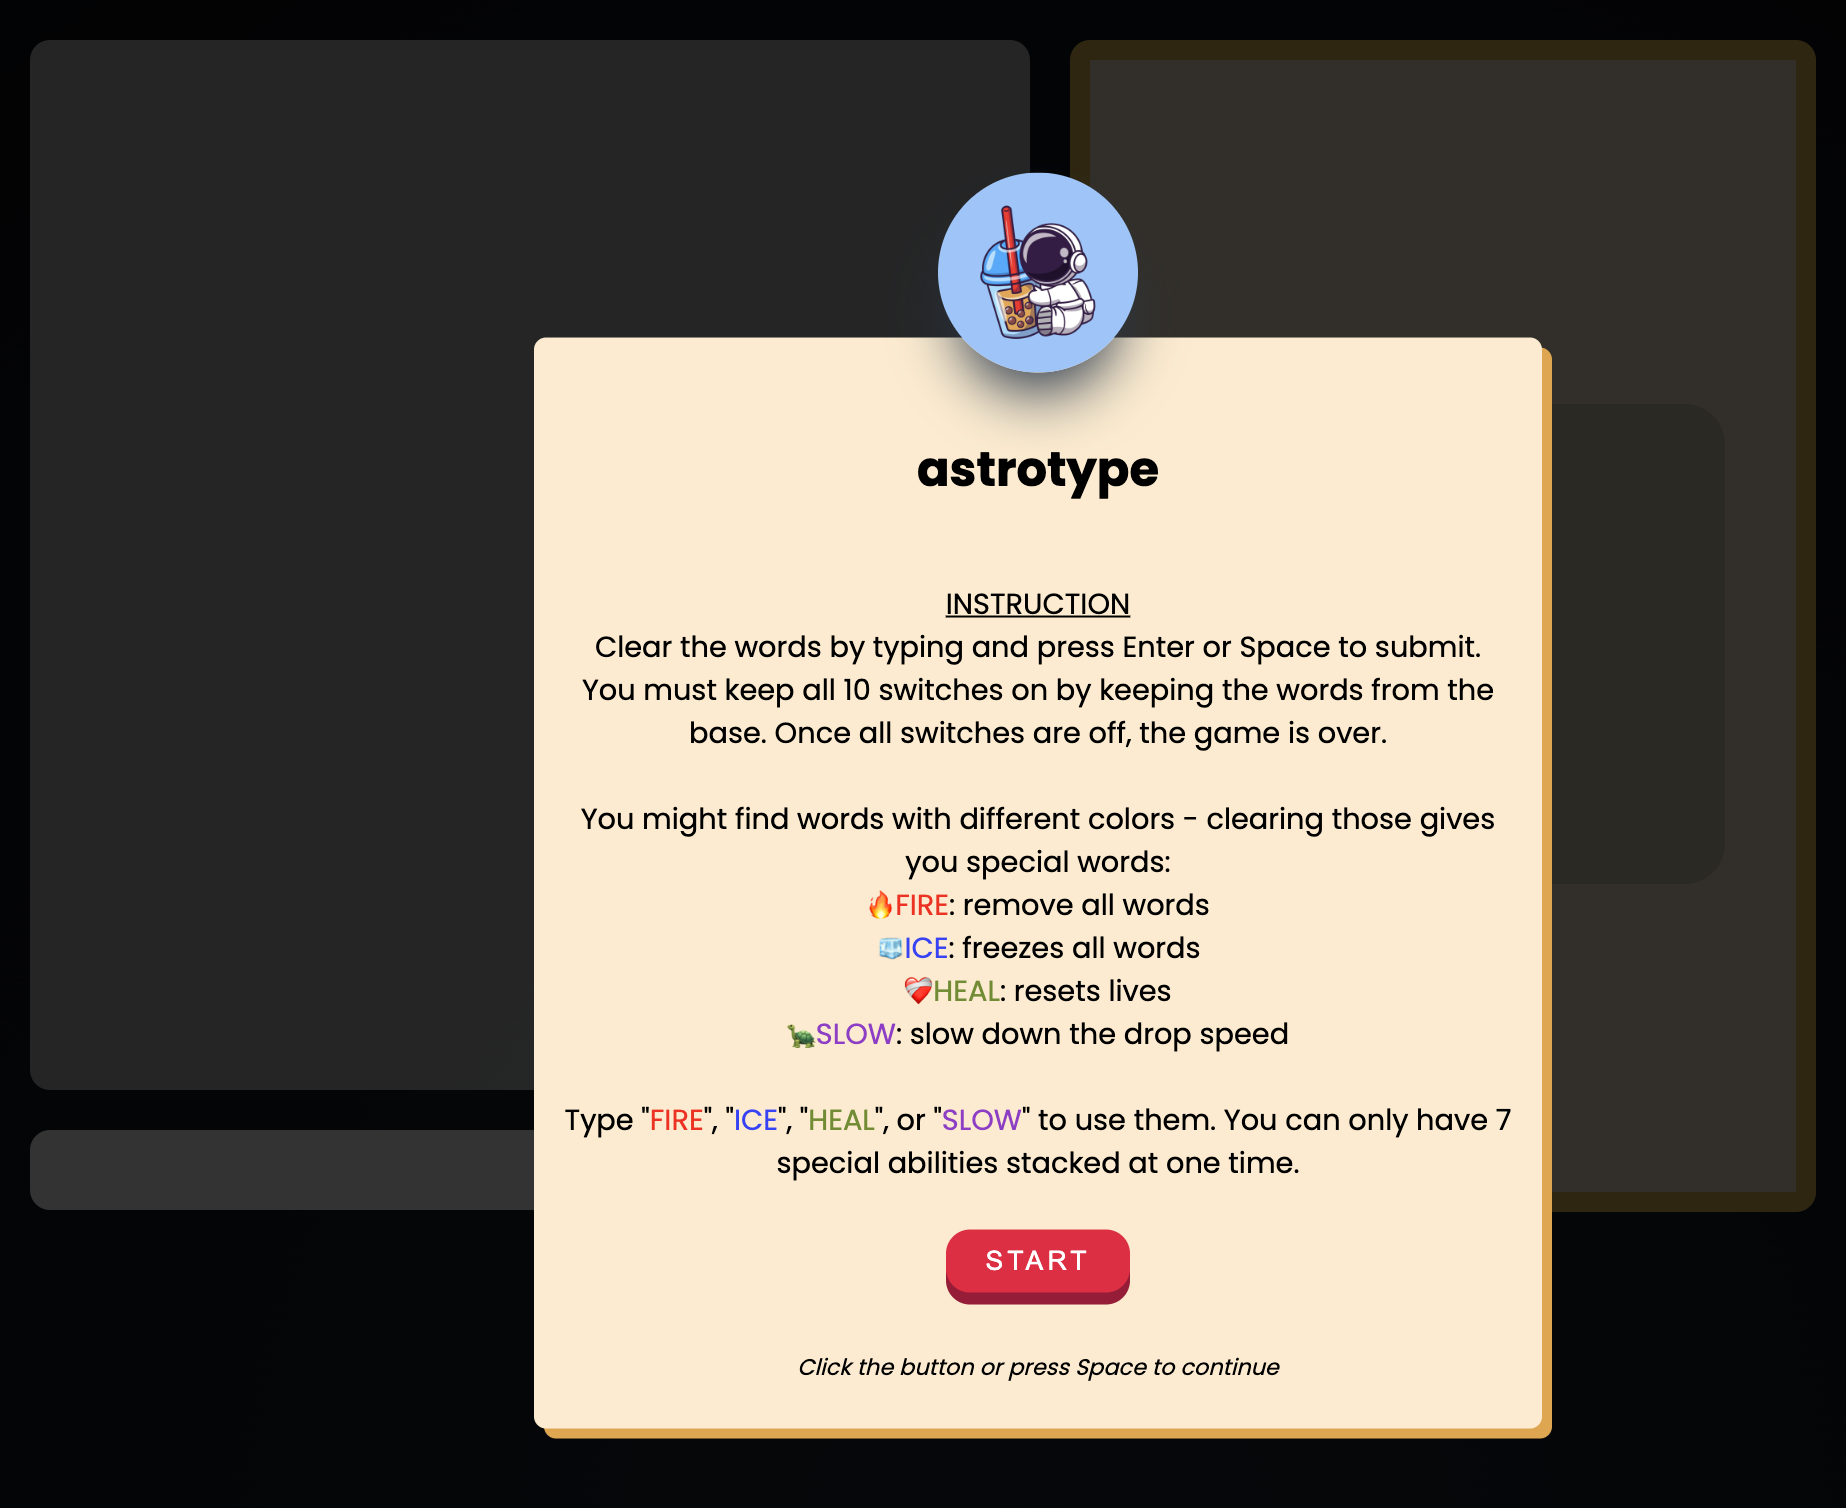
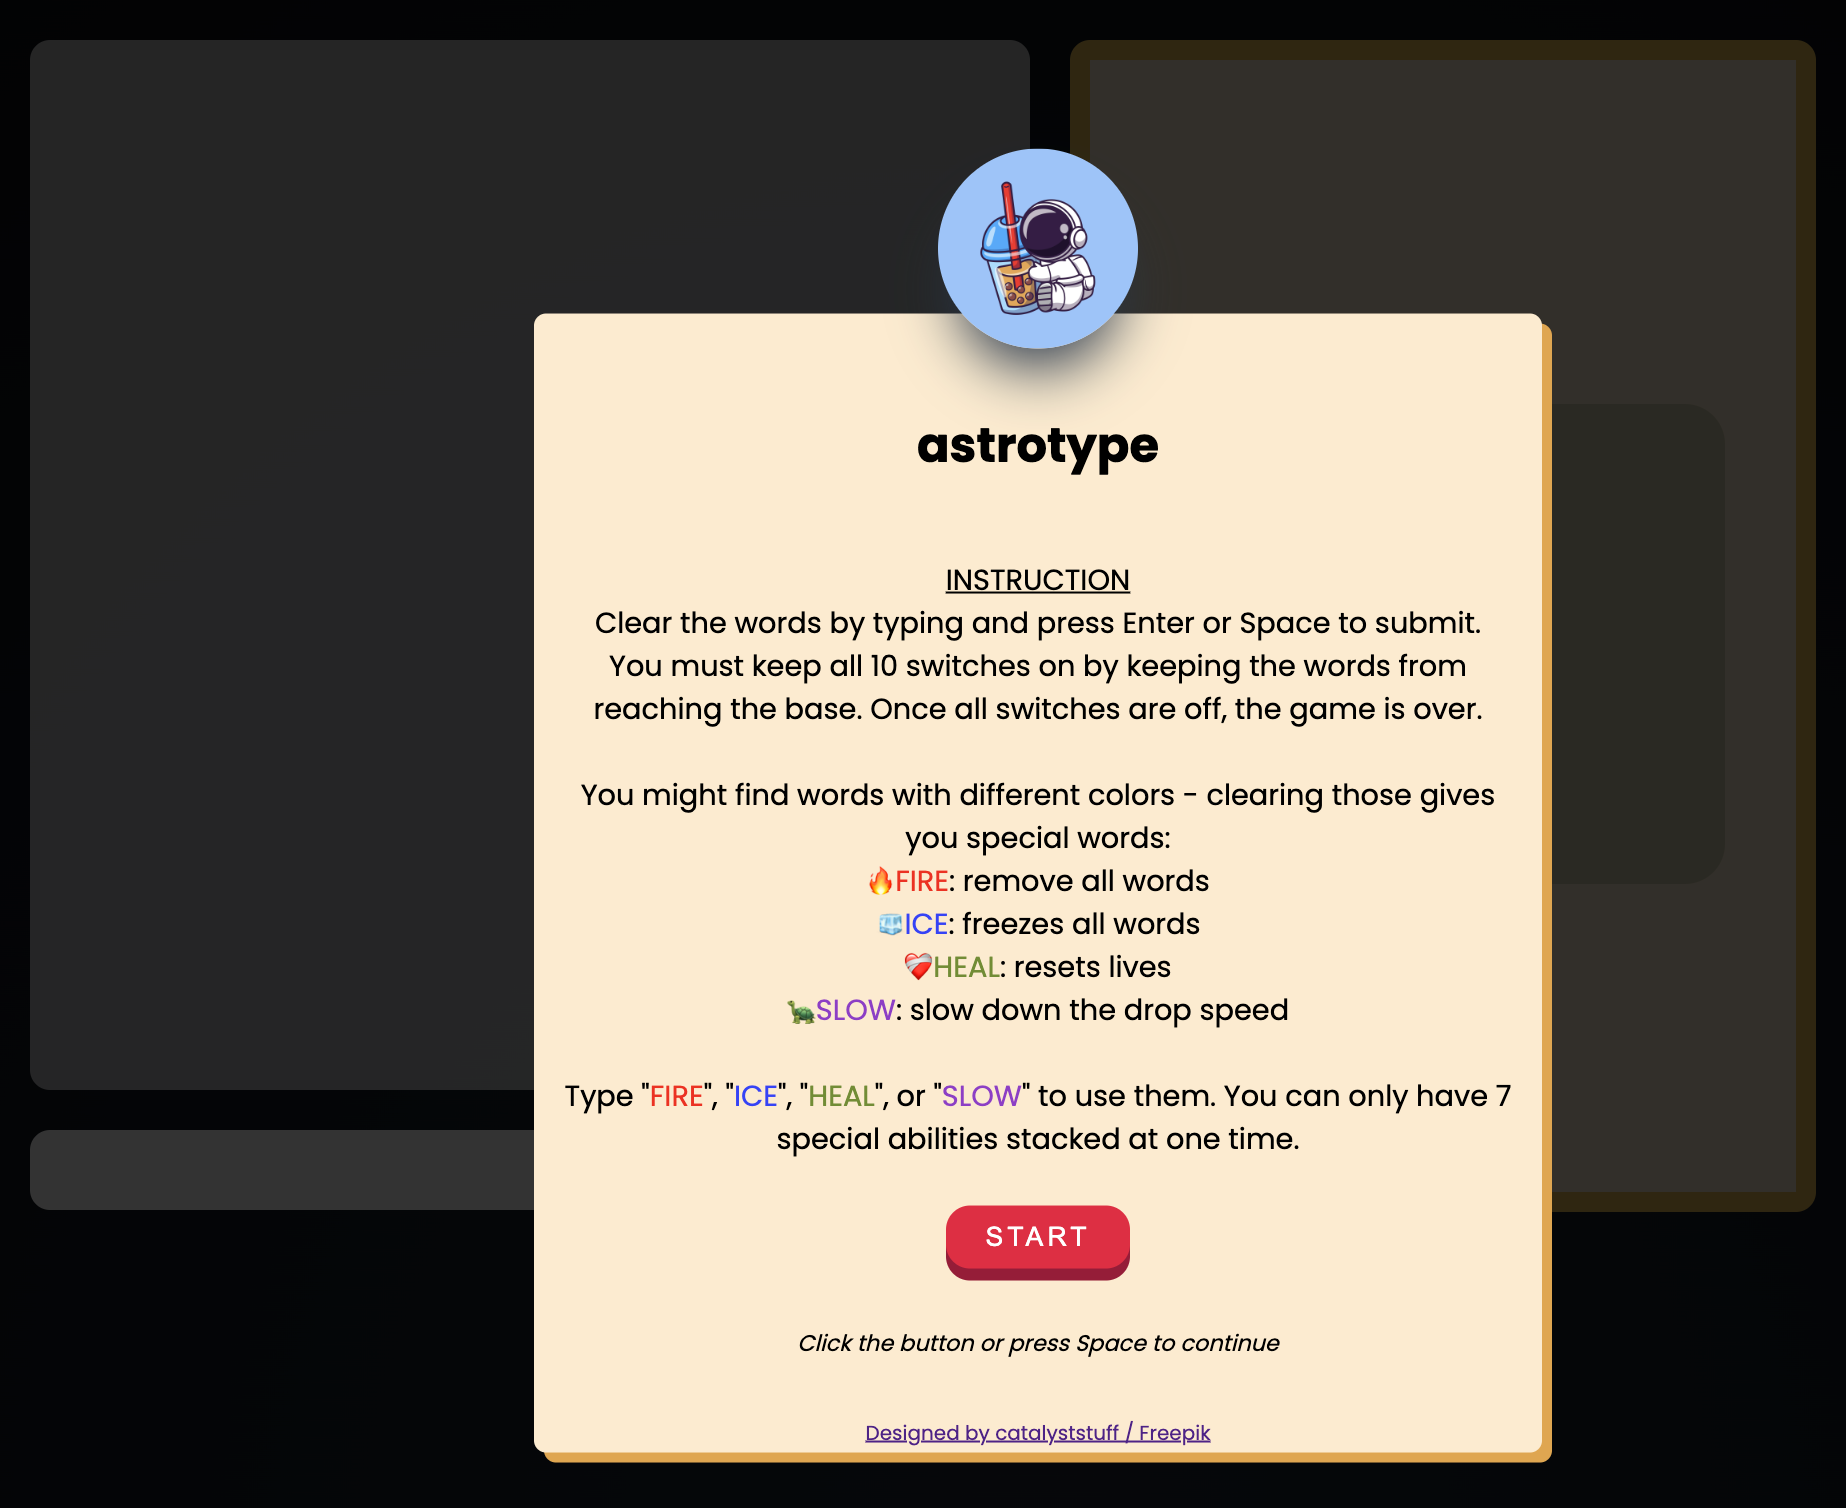
update readme and other minor changes

Changed region(s): [[0.2779, 0.374, 0.8646, 0.9973], [0.2779, 0.0935, 0.8646, 0.3428]]

diff --git a/index.html b/index.html
@@ -8,14 +8,8 @@
     <link rel="stylesheet" href="styles.css" crossorigin="anonymous" />
   </head>
   <body>
-    <!-- <div class="stars">
-      <div class="stars-back"></div>
-      <div class="stars-middle"></div>
-    </div> -->
-
-    <!-- creating a popup from: https://www.youtube.com/watch?v=AF6vGYIyV8M&ab_channel=EasyTutorials -->
-
     <div class="overlay">
+      <!-- creating a popup from: https://www.youtube.com/watch?v=AF6vGYIyV8M&ab_channel=EasyTutorials -->
       <div class="popup" style="font-family: Poppins">
         <img class="popup-image" src="assets/1981.jpg" />
         <h3 class="level" style="font-weight: 700; font-size: 24px">Level 1</h3>
@@ -24,8 +18,8 @@
           <span style="text-decoration: underline">INSTRUCTION</span>
           <br />
           Clear the words by typing and press Enter or Space to submit. <br />
-          You must keep all 10 switches on by keeping the words from the base.
-          Once all switches are off, the game is over.
+          You must keep all 10 switches on by keeping the words from reaching
+          the base. Once all switches are off, the game is over.
           <br />
           <br />
           You might find words with different colors - clearing those gives you
@@ -46,6 +40,9 @@
           <span class="front">START</span>
         </button>
         <p class="cont">Click the button or press Space to continue</p>
+        <a href="http://www.freepik.com" style="font-size: 10px" ;
+          >Designed by catalyststuff / Freepik</a
+        >
       </div>
     </div>
     <div class="game-area">

diff --git a/styles.css b/styles.css
@@ -177,56 +177,6 @@ body {
   transform: translateY(-2px);
 }
 
-/* background from: https://codepen.io/JDoe/pen/QxvgOZ */
-
-.stars > div {
-  /* > selects all elements with class "stars" where the parent is a <div> element */
-  overflow: hidden;
-  position: absolute;
-  top: 0;
-  bottom: 0;
-  left: 0;
-  right: 0;
-}
-
-.stars .stars-back {
-  top: -50%;
-  opacity: 0.5;
-  background-image: radial-gradient(
-      2px 2px at 20px 30px,
-      #eee,
-      rgba(0, 0, 0, 0)
-    ),
-    radial-gradient(2px 2px at 40px 70px, #fff, rgba(0, 0, 0, 0)),
-    radial-gradient(1px 1px at 90px 40px, #fff, rgba(0, 0, 0, 0)),
-    radial-gradient(2px 2px at 160px 120px, #ddd, rgba(0, 0, 0, 0));
-  background-repeat: repeat;
-  background-size: 150px 150px;
-  animation: stars 10s infinite linear;
-}
-
-.stars .stars-middle {
-  background-image: radial-gradient(
-      3px 3px at 50px 160px,
-      #ddd,
-      rgba(0, 0, 0, 0)
-    ),
-    radial-gradient(2px 2px at 90px 40px, #fff, rgba(0, 0, 0, 0)),
-    radial-gradient(2px 2px at 130px 80px, #fff, rgba(0, 0, 0, 0));
-  background-repeat: repeat;
-  background-size: 200px 200px;
-  animation: stars 15s infinite linear;
-}
-
-@keyframes stars {
-  0% {
-    top: -100%;
-  }
-  100% {
-    top: 0;
-  }
-}
-
 @keyframes descend {
   0% {
     transform: translateY(-20px);

diff --git a/script.js b/script.js
@@ -7,7 +7,7 @@ let score = 0;
 let animationId = 0;
 let dynamicStyles = null; // (https://stackoverflow.com/questions/59573722/how-can-i-set-a-css-keyframes-in-javascript)
 let level = 0;
-let minMaxLength = {
+const minMaxLength = {
   1: { min: 3, max: 4 },
   2: { min: 3, max: 5 },
   3: { min: 3, max: 6 },

diff --git a/README.md b/README.md
@@ -4,6 +4,8 @@
 
 This game is adapted from the popular Facebook game called Typing Maniac.
 
+Try playing the game [here](https://orlinromy.github.io/typing-game/)
+
 There are words coming down from the top of your screen, and you have to clear them by typing the word and press Enter or Space before it reaches the base.
 
 You have 10 lives, in a form of on switches, in each level, and it will be reset when you advance to the next level. Once all switches are turned off, the game is over.
@@ -30,30 +32,37 @@ To use these special abilities, you can type "FIRE", "ICE", "HEAL", and "SLOW" a
 ## Approach Taken
 
 - Creation of words are handled in JavaScript using the function `createWordDiv(level)`. It takes `level` input, which filters the `commonWords` array based on the minimum and maximum length per word (defined in `minMaxLength` variable). This will be used later on to randomize the word that the user need to type. `div` elements for the word are created using this function, and 40% of the time, word that carries the special abilities are created.
--
+- Displays on the sidebars are controlled in JavaScript
+- Animations are done mostly on CSS, while some other animations (e.g. speed up falling speed) are defined using dynamic styling
+- Popup and overlay are controlled in JavaScript using `openPopup()`, `closePopup()`, `openOverlay()`, and `removeOverlay()`
 
 ## Learning Points
 
-#### Technical skills
+1. Dynamic styling is used to store additional keyframes, which can be used to alter the animation. I thought I can just modify the `animation-duration` to create the speeding up effect for the falling word, but the animation resets and the word fall from the top of the screen instead of continuing from where it was.
 
-1. I discovered dynamic styling while trying to find out how to make the word to fall faster. By using dynamic styling, I can add additional CSS Object Model to the DOM, create other and use it for each word that needs to fall faster
-2. However, for the slow function in the game, dynamic styling might not be helpful because: 1. I need to slow down newly created words, too, 2. The words have to return back to its original falling speed. In CSS animation, you can animate the container to one direction at a faster pace and the element in the container to the other direction at a slower pace to make it seems like it slows down. In my case, I animated `.container` div which contains `.type-word` (the words that user need to type) to the opposite direction at a slower pace from the `.type-word`.
+2. However, for the slow function in the game, dynamic styling might not be helpful because: 1. I need to slow down newly created words, too, 2. The words have to return back to its original falling speed. In CSS animation, you can animate the container to one direction at a faster pace and the element in the container to the other direction at a slower pace to make it seems like it slows down. In my case, I animated `.container` div which contains `.type-word` (the words that user need to type) to the opposite direction at a slower pace from the `.type-word` to achieve the slowing down effect.
+
+More research will definitely be needed to effectively
 
 ## Unsolved Problems
 
-Yes, there are still bugs in a lot of places in my code (of course). Here are the list that I can find for now:
-
 1. Slow function: The words are created with `animationend` event listener, which makes the word div disappear after the animation ended. This causes the base to seem like it is shifting up. This functionality can probably be implemented by dynamically modifying the class of the element, and more research need to be done
 
-Please report an issue if you find other bugs!
+Do let me know if you find other bugs!
 
 ## Further Improvement
 
-1. Improved slow function
+1. Improve slow function
 2. Leaderboard
 3. More animations and sounds, especially when the word reaches the bottom and when the special abilities are activated
 4. Different shapes for the words
 
-## Epilogue
+## Credit
 
-That's all for now. Stay tuned for more updates... if I ever have time 🥲
+- GA SEI-37 and instructors
+- astronaut icon on popup: [Designed by catalyststuff / Freepik](https://www.freepik.com/free-vector/cute-astronaut-holding-boba-milk-tea-cartoon-vector-icon-illustration-space-food-drink-icon_10411711.htm#query=astronaut%20helmet&position=22&from_view=keyword)
+- switch graphic: [here](https://pixabay.com/vectors/switch-button-power-off-on-toggle-297791/)
+- Stack Overflow
+- Google Fonts
+- [CSS Box-Shadow](https://getcssscan.com/css-box-shadow-examples)
+- [YouTube Tutorial](https://www.youtube.com/watch?v=AF6vGYIyV8M&ab_channel=EasyTutorials)
